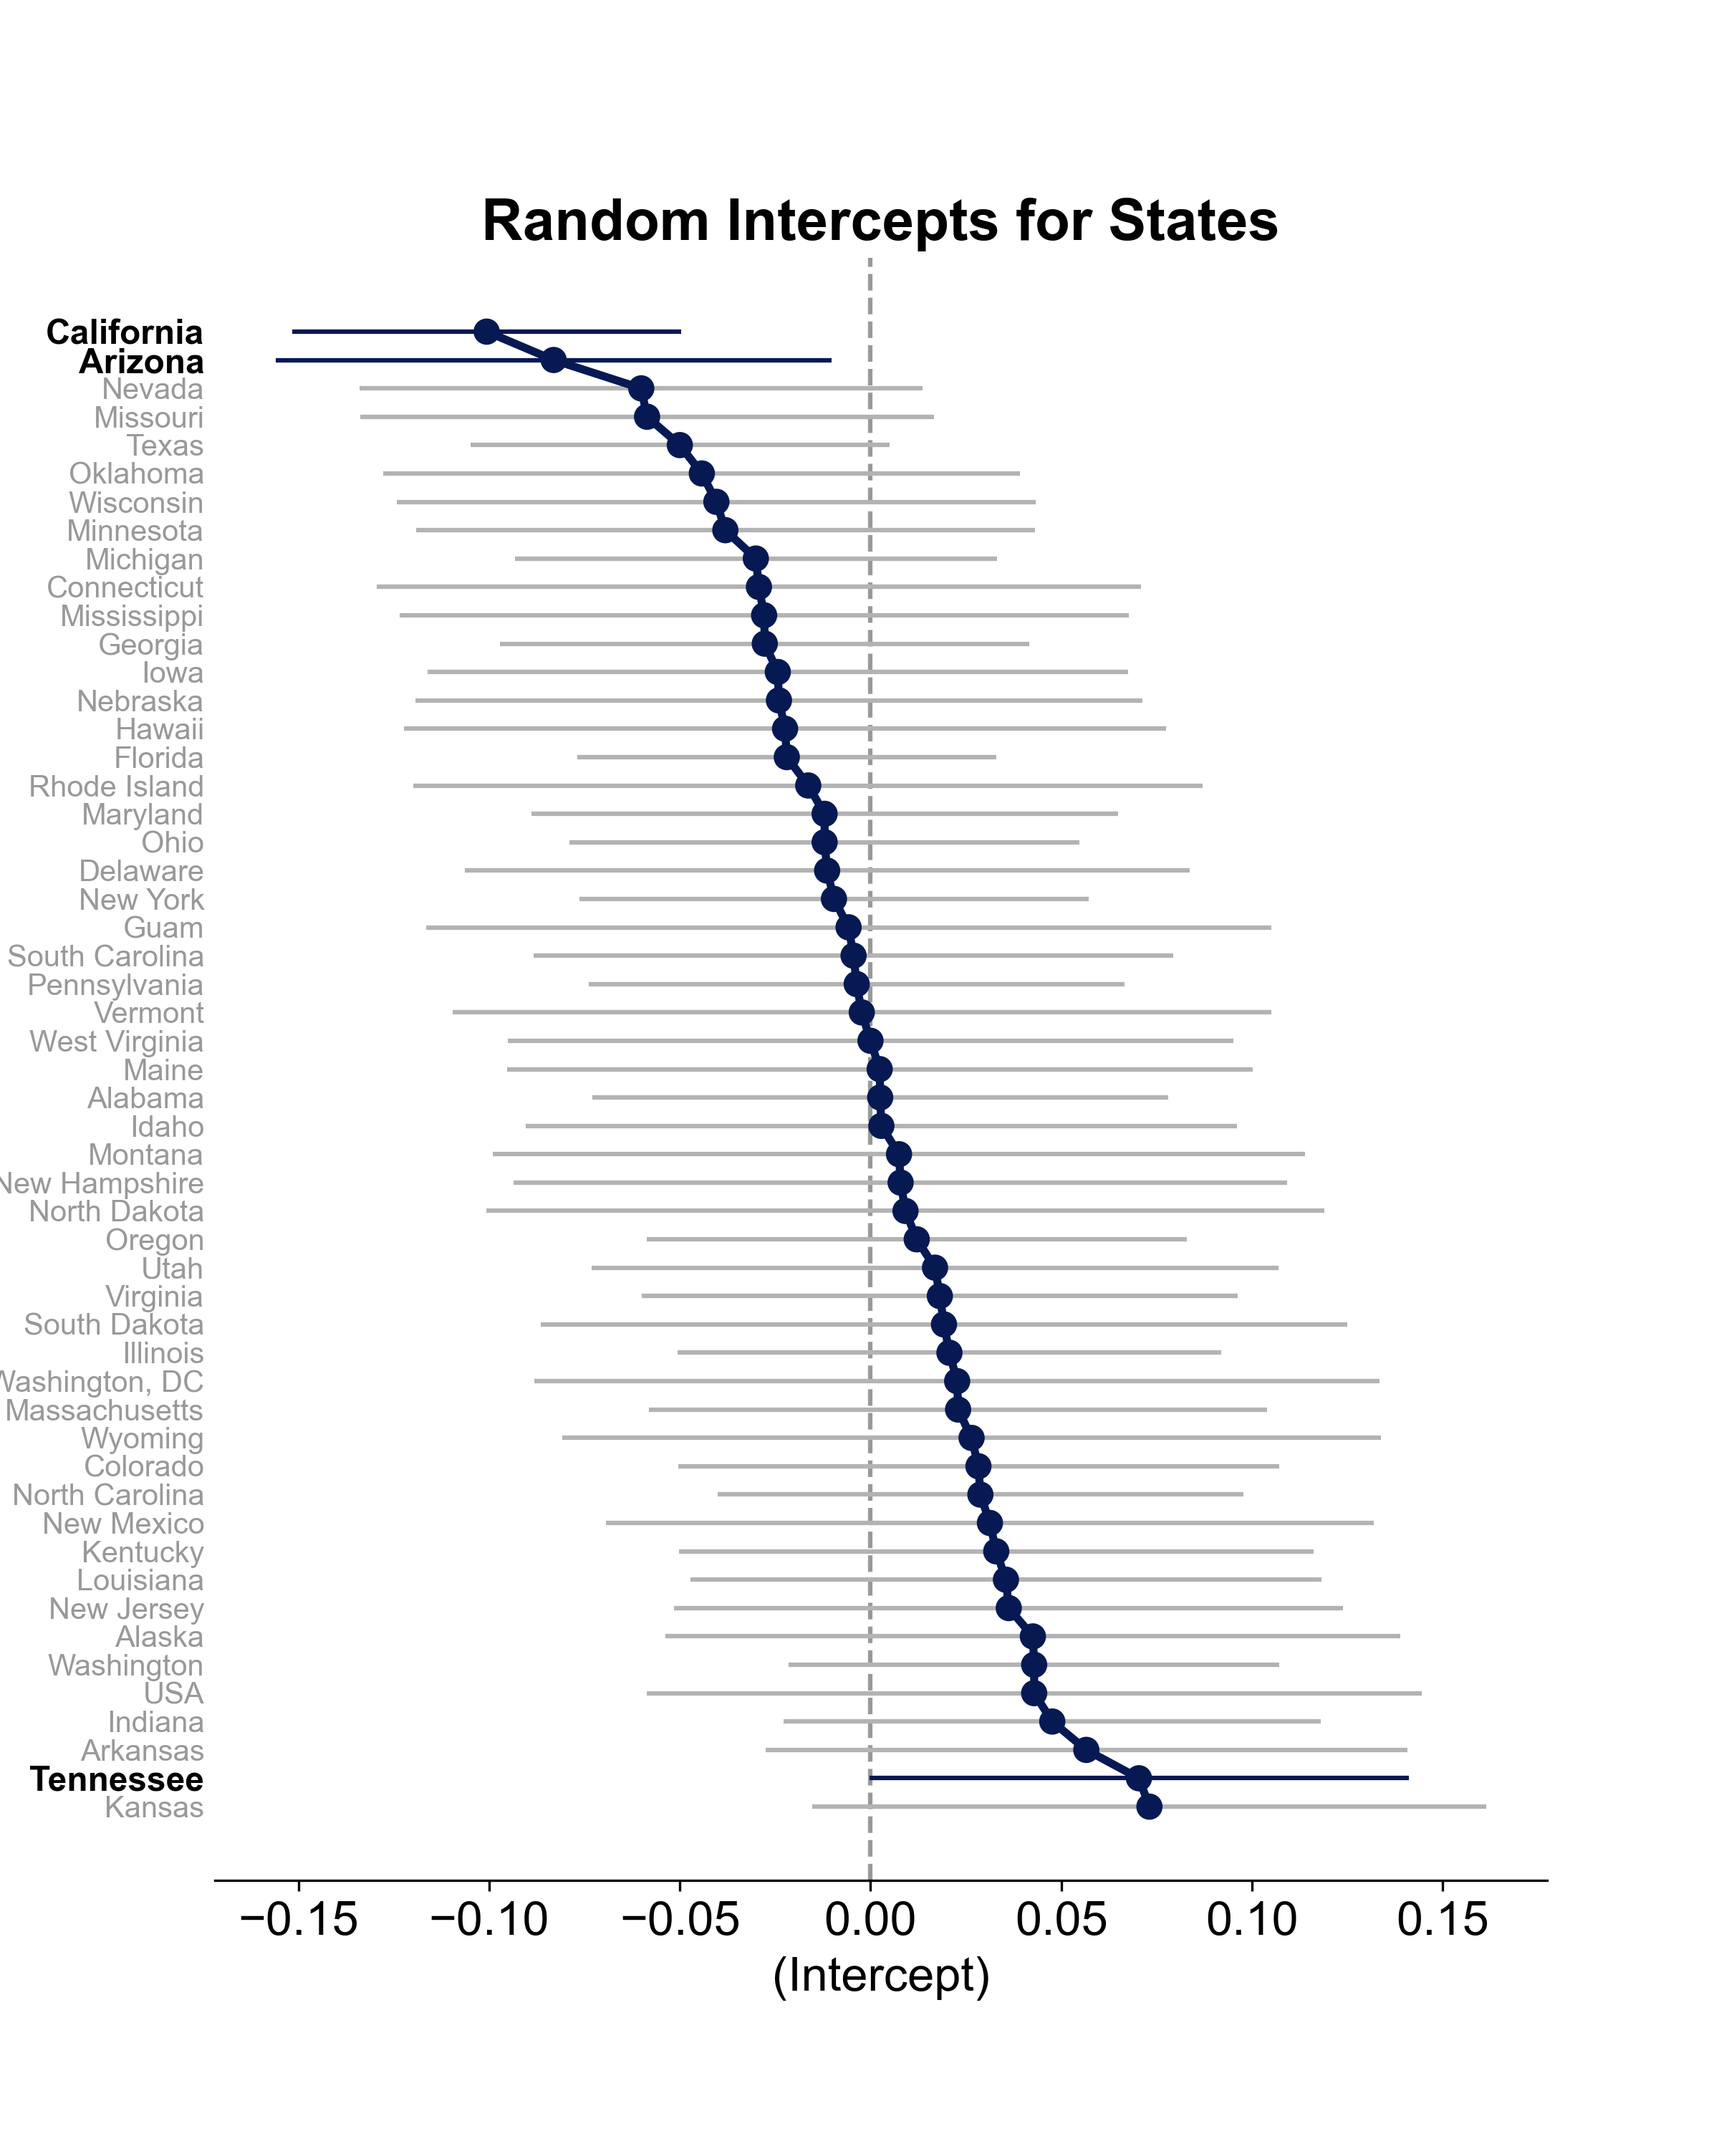
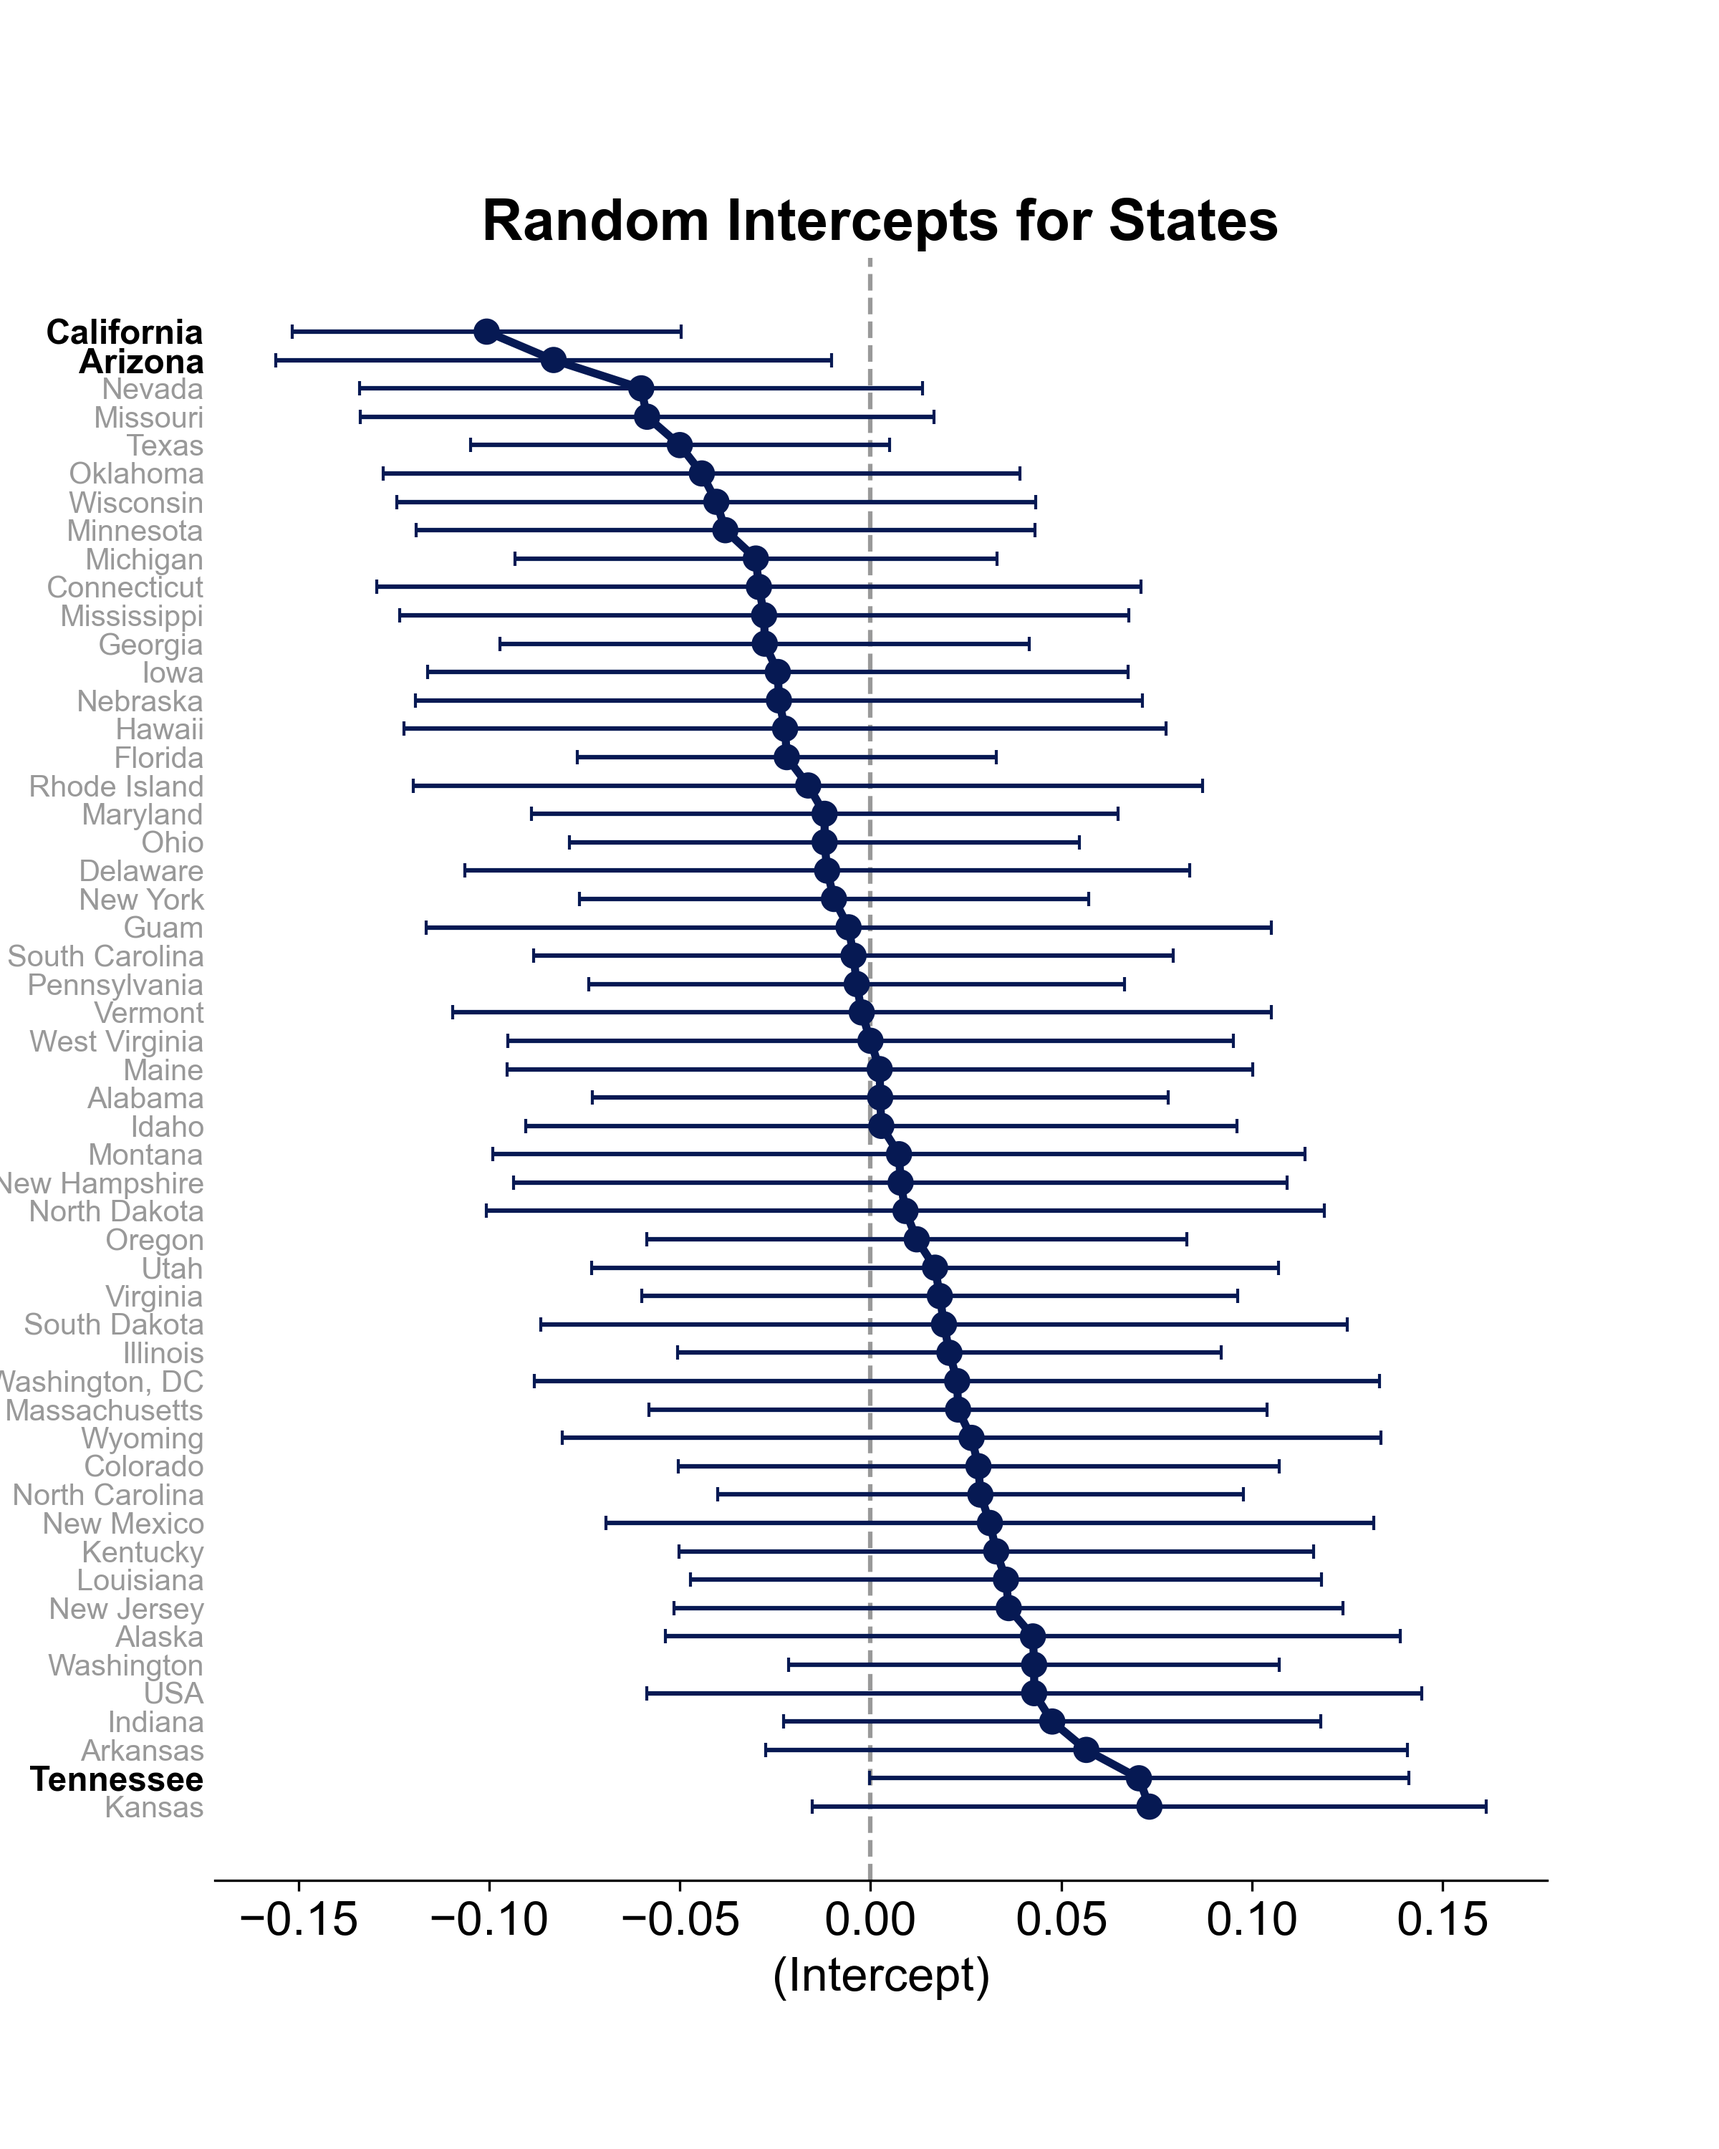
region plot

Changed region(s): [[0.2188, 0.186, 0.7812, 0.806]]

diff --git a/Presentation/part1_plots.py b/Presentation/part1_plots.py
@@ -88,19 +88,19 @@ plt.savefig("Images/ppm_source_mgstr.png", facecolor="white", dpi=300)
 #%%
 #################### Random Intercepts by State ####################
 
-df_dotplot = pd.read_parquet("../Data/part1_dotplot_data_state.parquet").sort_values(
+df_dotplot_state = pd.read_parquet("../Data/part1_dotplot_data_state.parquet").sort_values(
     by="pointestimate"
 )
-df_dotplot["state"] = df_dotplot["state"].astype("category")
+df_dotplot_state["state"] = df_dotplot_state["state"].astype("category")
 
 fig, ax = plt.subplots(figsize=(8, 10))
 
 sns.pointplot(
-    data=df_dotplot,
+    data=df_dotplot_state,
     y="state",
     x="pointestimate",
-    xerr=df_dotplot["err"],
-    order=df_dotplot["state"],
+    xerr=df_dotplot_state["err"],
+    order=df_dotplot_state["state"],
     ax=ax,
     color=DARKBLUE,
     zorder=10,
@@ -114,15 +114,16 @@ for label in ax.get_yticklabels():
     label.set_size(11.5 if label.get_text() in highlight_states else 10)
 
 ax.errorbar(
-    df_dotplot["pointestimate"],
-    df_dotplot["state"],
-    xerr=1.96 * df_dotplot["err"],
+    df_dotplot_state["pointestimate"],
+    df_dotplot_state["state"],
+    xerr=1.96 * df_dotplot_state["err"],
+    capsize=2.5,
     zorder=0,
     color=DARKBLUE,
-    ecolor=[
-        DARKBLUE if label.get_text() in highlight_states else "0.7"
-        for label in ax.get_yticklabels()
-    ],
+    # ecolor=[
+    #     DARKBLUE if label.get_text() in highlight_states else "0.7"
+    #     for label in ax.get_yticklabels()
+    # ],
 )
 sns.despine()
 ax.axvline(0, zorder=-1, color="0.6", linestyle="--")
@@ -136,50 +137,44 @@ plt.savefig("Images/intercept_by_state.png", facecolor="white", dpi=300)
 #%%
 #################### Random Intercepts by Region ####################
 
-df_dotplot = pd.read_parquet("../Data/part1_dotplot_data_region.parquet").sort_values(
+df_dotplot_region = pd.read_parquet("../Data/part1_dotplot_data_region.parquet").sort_values(
     by="pointestimate"
-)
-df_dotplot["state"] = df_dotplot["state"].astype("category")
+).rename({'state': 'region'}, axis=1)
+df_dotplot_region["region"] = df_dotplot_region["region"].astype("category")
 
 fig, ax = plt.subplots(figsize=(8, 10))
 
 sns.pointplot(
-    data=df_dotplot,
-    y="state",
+    data=df_dotplot_region,
+    y="region",
     x="pointestimate",
-    xerr=df_dotplot["err"],
-    order=df_dotplot["state"],
+    xerr=df_dotplot_region["err"],
+    order=df_dotplot_region["region"],
     ax=ax,
     color=DARKBLUE,
     zorder=10,
 )
 
-highlight_states = ["California", "Arizona", "Tennessee"]
-ax.set_yticklabels(ax.get_yticklabels(), size=11)
+highlight_regions = ["South"]
 for label in ax.get_yticklabels():
-    label.set_color("k" if label.get_text() in highlight_states else "0.6")
-    label.set_weight("bold" if label.get_text() in highlight_states else "normal")
-    label.set_size(11.5 if label.get_text() in highlight_states else 10)
+    label.set_weight("bold" if label.get_text() in highlight_regions else "normal")
 
 ax.errorbar(
-    df_dotplot["pointestimate"],
-    df_dotplot["state"],
-    xerr=1.96 * df_dotplot["err"],
+    df_dotplot_region["pointestimate"],
+    df_dotplot_region["region"],
+    xerr=1.96 * df_dotplot_region["err"],
+    capsize=5,
     zorder=0,
     color=DARKBLUE,
-    ecolor=[
-        DARKBLUE if label.get_text() in highlight_states else "0.7"
-        for label in ax.get_yticklabels()
-    ],
 )
 sns.despine()
 ax.axvline(0, zorder=-1, color="0.6", linestyle="--")
 ax.set_xlabel("(Intercept)")
-ax.set_ylabel("State")
-ax.set_title("Random Intercepts for States", weight="bold")
+ax.set_ylabel("Region")
+ax.set_title("Random Intercepts for Regions", weight="bold")
 ax.spines['left'].set_visible(False)
 ax.yaxis.set_tick_params(which="both", length=0)
-plt.savefig("Images/intercept_by_state.png", facecolor="white", dpi=300)
+plt.savefig("Images/intercept_by_region.png", facecolor="white", dpi=300)
 
 
 #%%
